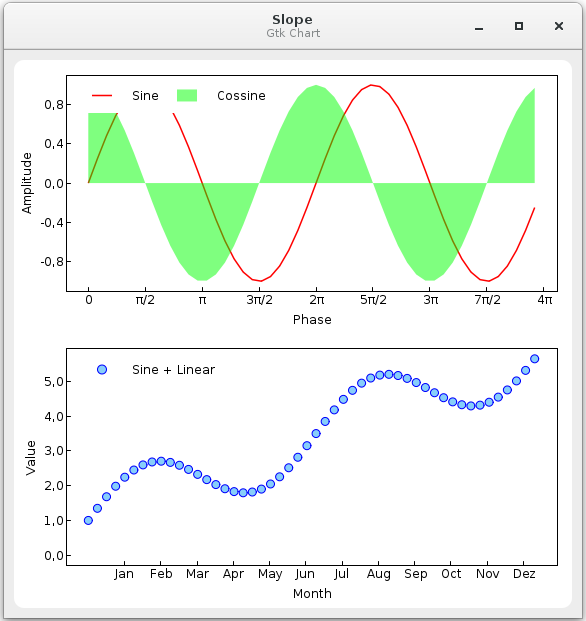
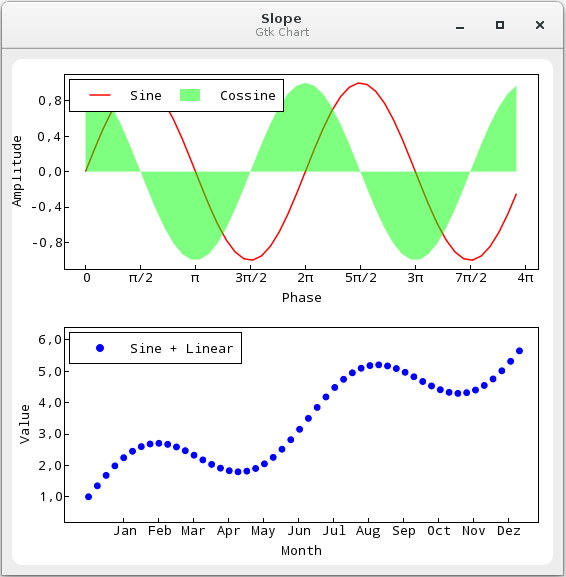
Updated screenshot

diff --git a/src/slope/xyaxis.c b/src/slope/xyaxis.c
@@ -34,6 +34,7 @@ _SlopeXyAxisPrivate
     SlopeColor text_color;
     SlopeColor title_color;
     SlopeColor select_rect_color;
+    gboolean line_antialias;
     double line_width;
     double grid_line_width;
     char *title;
@@ -69,13 +70,13 @@ slope_xyaxis_class_init (SlopeXyAxisClass *klass) {
     item_klass->get_figure_rect = _xyaxis_get_figure_rect;
 }
 
-
 static void
 slope_xyaxis_init (SlopeXyAxis *self) {
     SlopeXyAxisPrivate *priv = SLOPE_XYAXIS_GET_PRIVATE(self);
     priv->orientation = SLOPE_HORIZONTAL;
     priv->line_color = SLOPE_BLACK; /* SLOPE_GRAY(120); */
     priv->grid_color = SLOPE_GRAY(120);
+    priv->line_antialias = FALSE;
     SLOPE_SET_ALPHA(priv->grid_color, 64);
     priv->text_color = SLOPE_BLACK;
     priv->select_rect_color = SLOPE_BLUE;
@@ -91,45 +92,33 @@ slope_xyaxis_init (SlopeXyAxis *self) {
     priv->sampler = slope_sampler_new();
 }
 
-
-static
-void _xyaxis_finalize (GObject *self)
-{
+static void
+_xyaxis_finalize (GObject *self) {
     SlopeXyAxisPrivate *priv = SLOPE_XYAXIS_GET_PRIVATE(self);
-
     slope_sampler_destroy(priv->sampler);
-
     G_OBJECT_CLASS(slope_xyaxis_parent_class)->finalize(self);
 }
 
-
-SlopeItem* slope_xyaxis_new (int orientation, const char *title)
-{
+SlopeItem* slope_xyaxis_new (int orientation, const char *title) {
     SlopeXyAxis *self = SLOPE_XYAXIS(g_object_new(SLOPE_XYAXIS_TYPE, NULL));
     SlopeXyAxisPrivate *priv = SLOPE_XYAXIS_GET_PRIVATE(self);
-
     priv->orientation = orientation;
     slope_xyaxis_set_title(self, title);
-
     return SLOPE_ITEM(self);
 }
 
-
-static
-void _xyaxis_draw (SlopeItem *self, cairo_t *cr)
-{
+static void
+_xyaxis_draw (SlopeItem *self, cairo_t *cr) {
     SlopeXyAxisPrivate *priv = SLOPE_XYAXIS_GET_PRIVATE(self);
-
     cairo_set_line_width(cr, priv->line_width);
+    slope_cairo_set_antialias(cr, priv->line_antialias);
     cairo_set_line_cap(cr, CAIRO_LINE_CAP_ROUND);
-
     if (priv->orientation == SLOPE_HORIZONTAL) {
         _xyaxis_draw_horizontal(SLOPE_XYAXIS(self), cr);
     }
     else if (priv->orientation == SLOPE_VERTICAL) {
         _xyaxis_draw_vertical(SLOPE_XYAXIS(self), cr);
     }
-
     if (priv->selected == TRUE) {
         SlopeRect rect;
         slope_item_get_figure_rect(self, &rect);
@@ -139,10 +128,8 @@ void _xyaxis_draw (SlopeItem *self, cairo_t *cr)
     }
 }
 
-
-static
-void _xyaxis_draw_horizontal (SlopeXyAxis *self, cairo_t *cr)
-{
+static void
+_xyaxis_draw_horizontal (SlopeXyAxis *self, cairo_t *cr) {
     SlopeXyAxisPrivate *priv = SLOPE_XYAXIS_GET_PRIVATE(self);
     SlopeScale *scale = slope_item_get_scale(SLOPE_ITEM(self));
     cairo_text_extents_t txt_ext;
@@ -151,7 +138,6 @@ void _xyaxis_draw_horizontal (SlopeXyAxis *self, cairo_t *cr)
     GList *sample_list, *iter;
     double txt_height;
     guint32 sampler_mode;
-
     slope_scale_get_figure_rect(scale, &scale_fig_rect);
     cairo_text_extents(cr, "dummy", &txt_ext);
     txt_height = txt_ext.height;

diff --git a/src/slope/figure.c b/src/slope/figure.c
@@ -110,15 +110,14 @@ _figure_add_scale (SlopeFigure *self, SlopeScale *scale) {
 
 static void
 _figure_draw (SlopeFigure *self, const SlopeRect *in_rect, cairo_t *cr) {
-    SlopeFigurePrivate *priv = SLOPE_FIGURE_GET_PRIVATE(self);
     SlopeRect rect;
     /* save cr's state and clip tho the figure's rectangle,
        fill the background if required */
     cairo_save(cr);
-    cairo_select_font_face(cr, "Droid Sans Mono",
+    cairo_select_font_face(cr, "Sans",
           CAIRO_FONT_SLANT_NORMAL,
           CAIRO_FONT_WEIGHT_NORMAL);
-    cairo_set_font_size(cr, 12);
+    cairo_set_font_size(cr, 11);
     cairo_new_path(cr);
     _figure_evaluate_rect(self, &rect, in_rect, cr);
     _figure_draw_background(self, &rect, cr);

diff --git a/src/slope/legend.c b/src/slope/legend.c
@@ -81,7 +81,7 @@ slope_legend_init (SlopeLegend *self) {
     SlopeLegendPrivate *priv = SLOPE_LEGEND_GET_PRIVATE(self);
     priv->orientation = SLOPE_HORIZONTAL;
     priv->rect_fill_color = SLOPE_WHITE;
-    priv->rect_stroke_color = SLOPE_COLOR_NULL;
+    priv->rect_stroke_color = SLOPE_BLACK;
     priv->text_color = SLOPE_BLACK;
     priv->rect_stroke_width = 1.0;
     priv->rect_antialias = FALSE;
